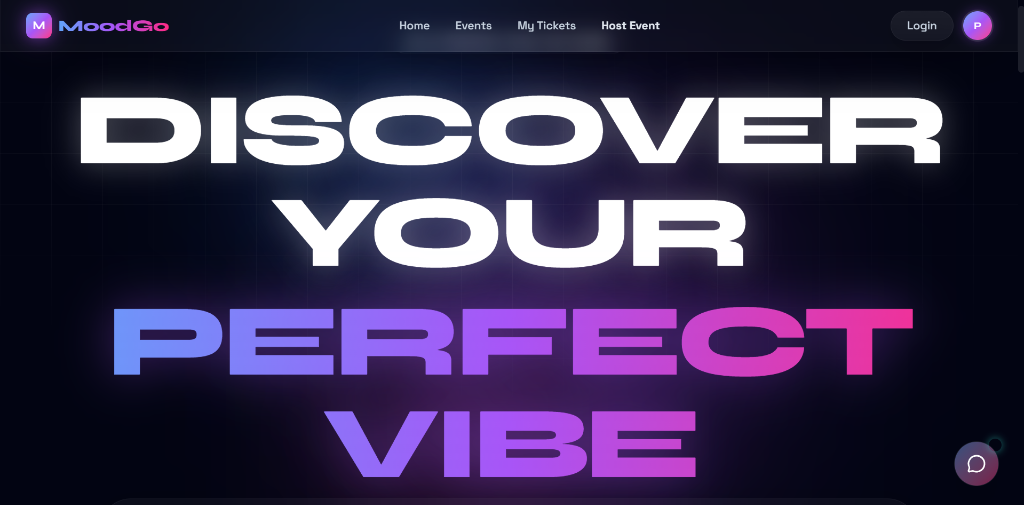
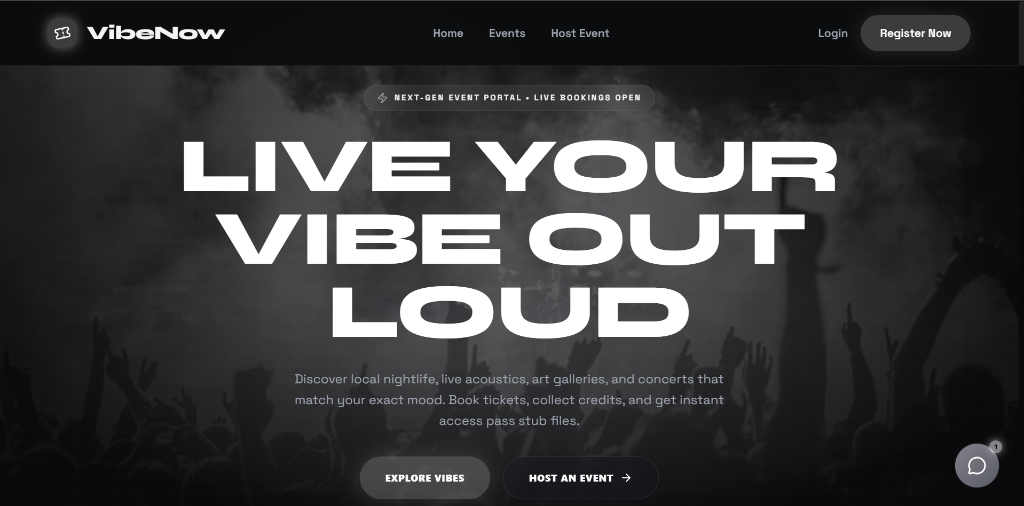
Update VibeNow links and display image

diff --git a/src/Home.jsx b/src/Home.jsx
@@ -12,7 +12,7 @@ const getAssetUrl = (path) => {
 
 const projectsData = [
   { id: "1", title: "EduGenius", image: "/project-images/1/1.png", liveUrl: "https://edu-genius-b28b.onrender.com", githubUrl: "https://github.com/himanshi1109/edu-Genius" },
-  { id: "2", title: "VibeNow", image: "/project-images/2/1.png?v=3", liveUrl: "/project/2", githubUrl: "https://github.com/himanshi1109/moodGo" },
+  { id: "2", title: "VibeNow", image: "/project-images/2/1.png?v=4", liveUrl: "https://vibenow.onrender.com/", githubUrl: "https://github.com/himanshi1109/VibeNow" },
   { id: "12", title: "HRMS Portal", image: "/project-images/12/1.jpg", liveUrl: "https://hrms-5wnb.onrender.com", githubUrl: "https://github.com/himanshi1109/HRMS" },
   { id: "3", title: "PokeGame", image: "/project-images/3/1.png", liveUrl: "https://pokemon-game-self.vercel.app/", githubUrl: "https://github.com/himanshi1109/pokemonGame" },
   { id: "4", title: "Gen Cook AI", image: "/project-images/4/1.png?v=3", liveUrl: "https://himanshi1109.github.io/Gen-CookAI/", githubUrl: "https://github.com/himanshi1109/Gen-CookAI" },

diff --git a/src/ProjectDetail.jsx b/src/ProjectDetail.jsx
@@ -11,7 +11,7 @@ const getAssetUrl = (path) => {
 
 const projectMetadata = {
   "1": { title: "EDUGENIUS", category: "Full-Stack Development", year: "2025", count: 1, liveUrl: "https://edu-genius-b28b.onrender.com", githubUrl: "https://github.com/himanshi1109/edu-Genius" },
-  "2": { title: "VIBENOW", category: "Full-Stack Development", year: "2024", count: 1, liveUrl: "/project/2", githubUrl: "https://github.com/himanshi1109/moodGo" },
+  "2": { title: "VIBENOW", category: "Full-Stack Development", year: "2024", count: 1, liveUrl: "https://vibenow.onrender.com/", githubUrl: "https://github.com/himanshi1109/VibeNow" },
   "12": { title: "HRMS PORTAL", category: "Full-Stack Development", year: "2026", count: 1, liveUrl: "https://hrms-5wnb.onrender.com", githubUrl: "https://github.com/himanshi1109/HRMS" },
   "3": { title: "POKEGAME", category: "Game Quiz App", year: "2024", count: 1, liveUrl: "https://pokemon-game-self.vercel.app/", githubUrl: "https://github.com/himanshi1109/pokemonGame" },
   "4": { title: "GEN COOK AI", category: "AI Powered Web App", year: "2024", count: 1, liveUrl: "https://himanshi1109.github.io/Gen-CookAI/", githubUrl: "https://github.com/himanshi1109/Gen-CookAI" },